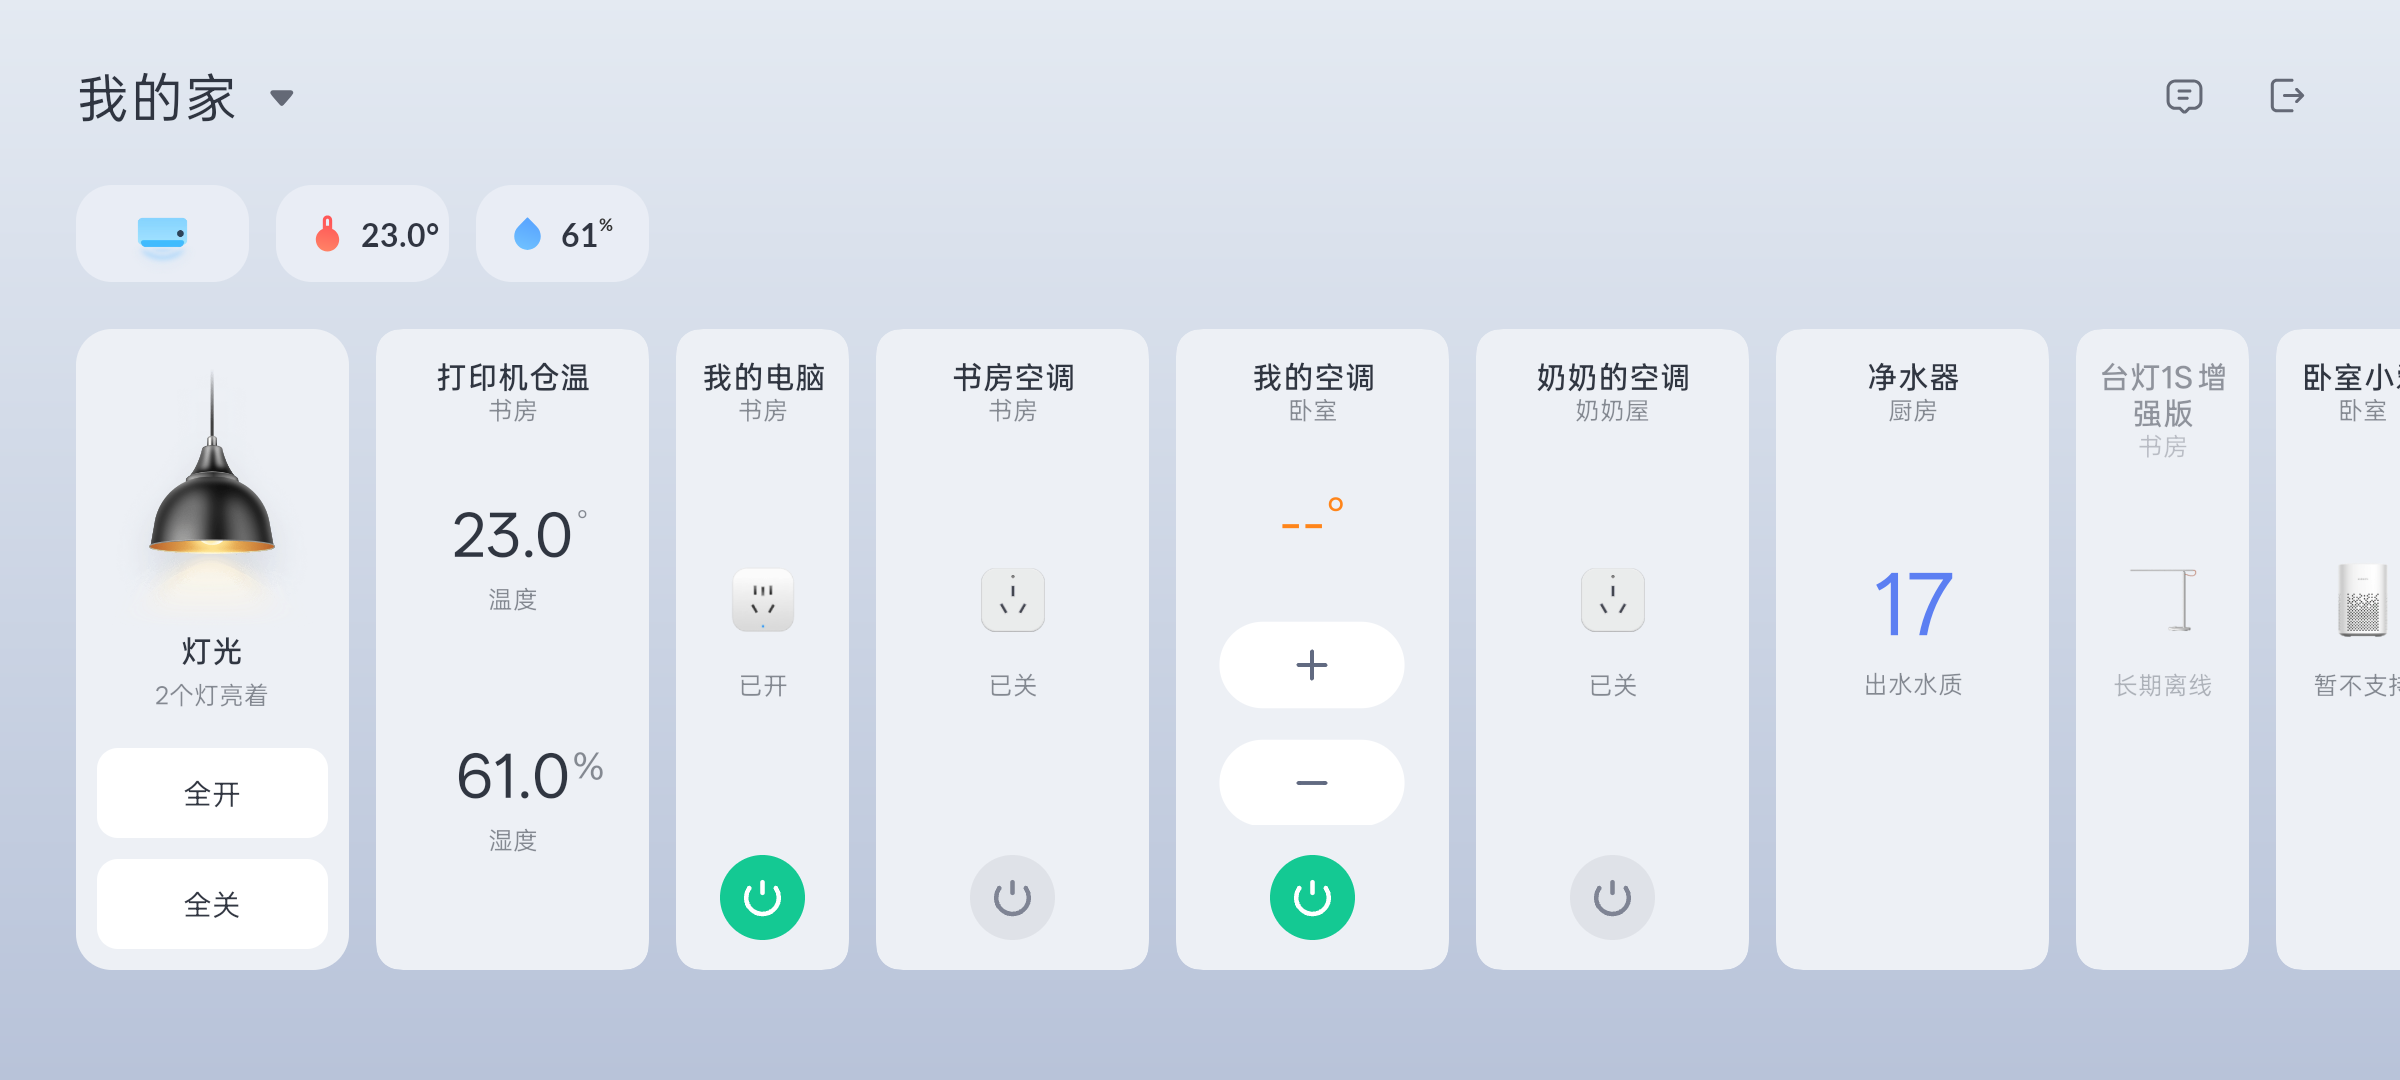
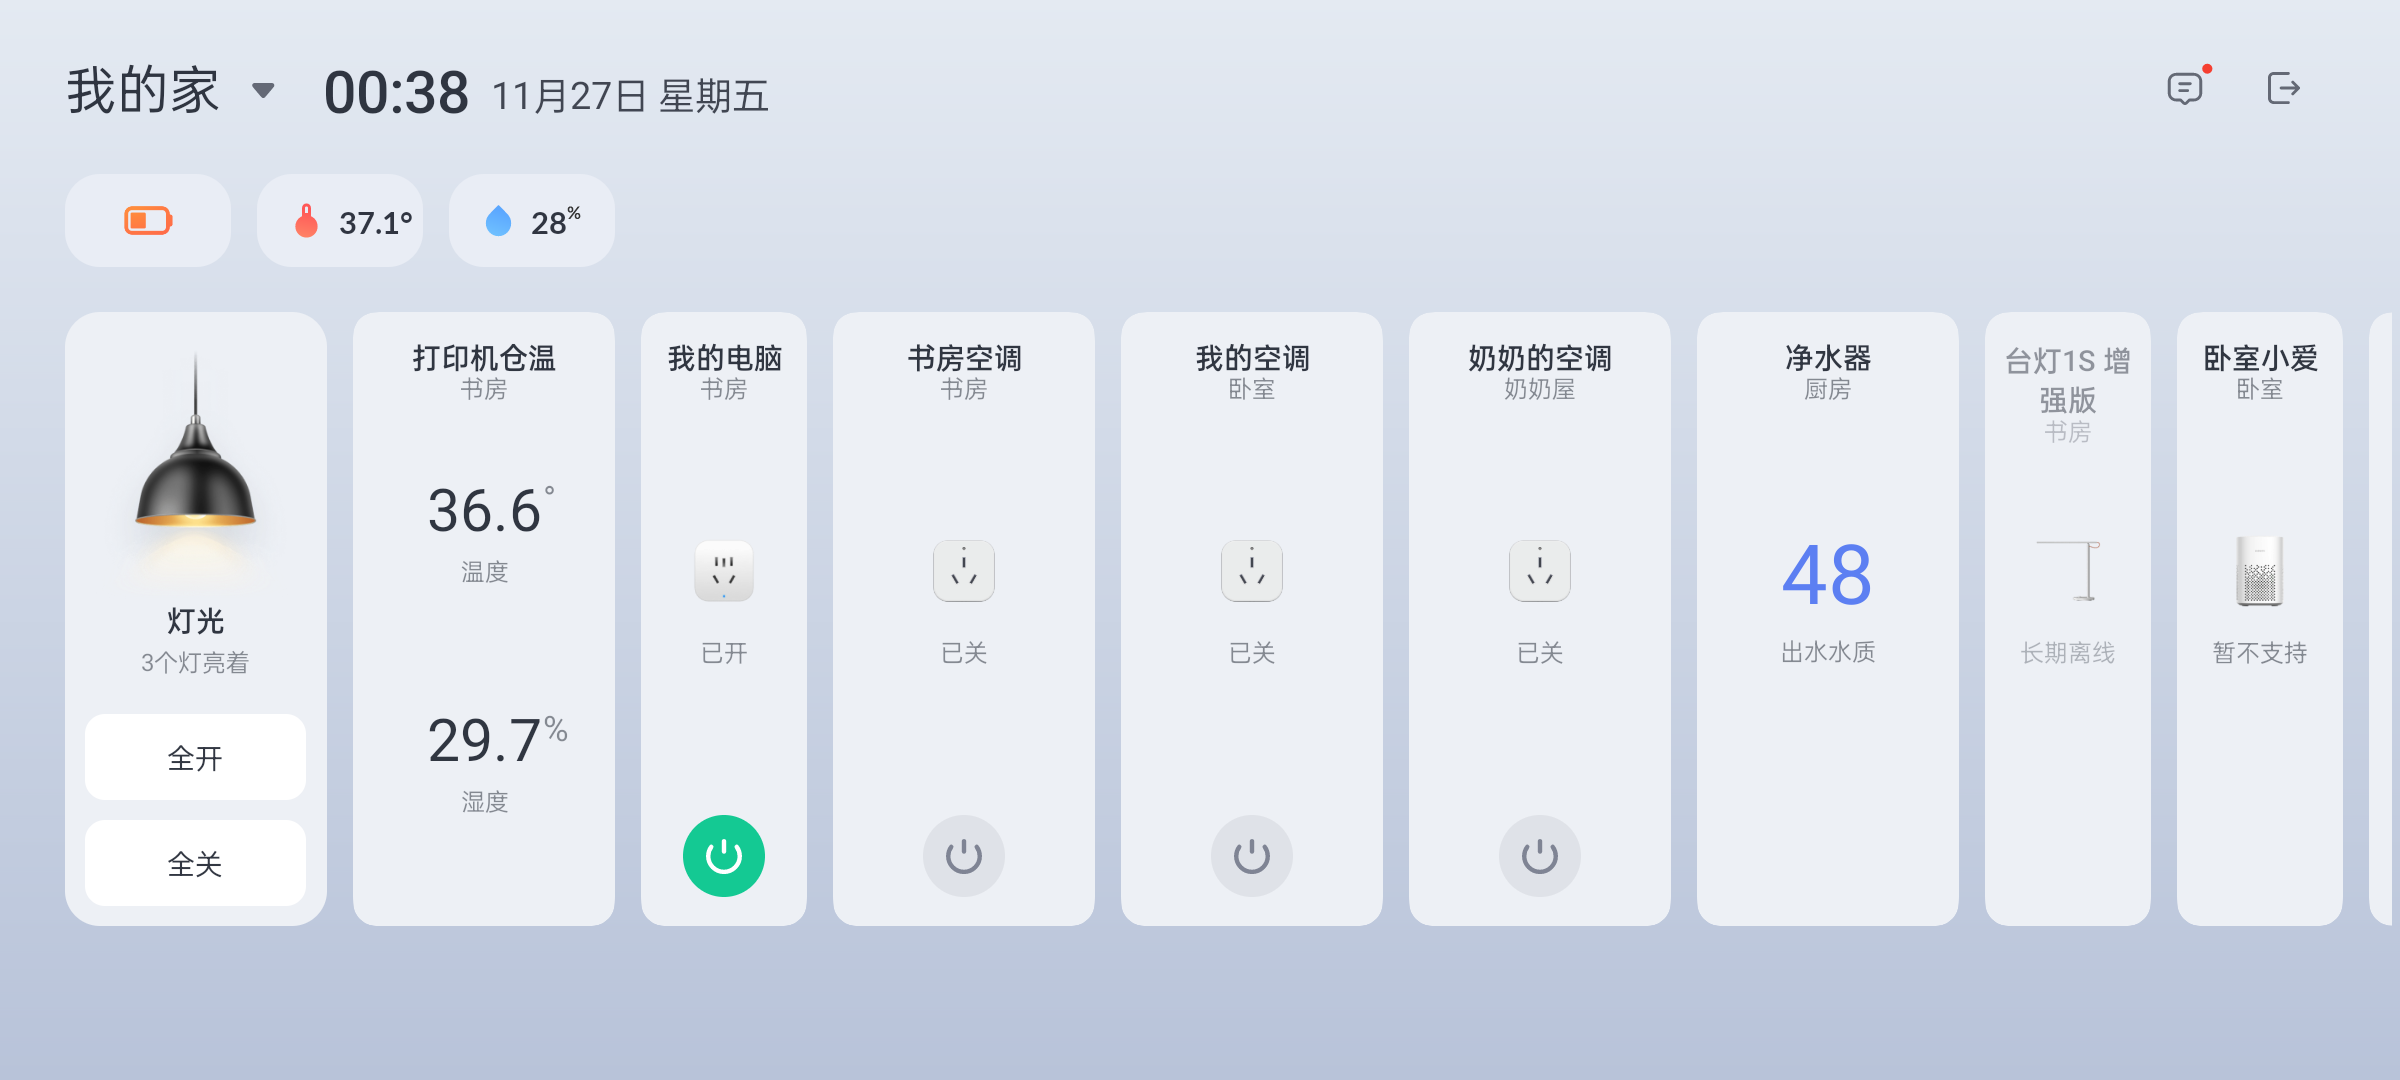
Release MijiaPanel 1.2.3

diff --git a/app/src/main/java/com/daxiaamu/mijiapanel/SettingsActivity.kt b/app/src/main/java/com/daxiaamu/mijiapanel/SettingsActivity.kt
@@ -111,7 +111,7 @@ class SettingsActivity : ComponentActivity() {
         const val BLOG_URL = "https://www.daxiaamu.com"
         const val GITHUB_PROFILE_URL = "https://github.com/daxiaamu"
         const val REPOSITORY_URL = "https://github.com/daxiaamu/mijiapanel"
-        const val MIJIA_APK_DOWNLOAD_URL = "https://pan.quark.cn/s/b331f616f77f"
+        const val MIJIA_APK_DOWNLOAD_URL = "https://pan.quark.cn/s/f6ce5d5bf94d"
     }
 
     private val handler = Handler(Looper.getMainLooper())

diff --git a/app/src/main/java/com/daxiaamu/mijiapanel/PanelClock.java b/app/src/main/java/com/daxiaamu/mijiapanel/PanelClock.java
@@ -1,0 +1,166 @@
+package com.daxiaamu.mijiapanel;
+
+import android.app.Activity;
+import android.content.res.Configuration;
+import android.graphics.Rect;
+import android.graphics.Typeface;
+import android.text.format.DateFormat;
+import android.view.Gravity;
+import android.view.View;
+import android.view.ViewGroup;
+import android.view.ViewTreeObserver;
+import android.widget.FrameLayout;
+import android.widget.LinearLayout;
+import android.widget.TextClock;
+import android.widget.TextView;
+
+import java.util.Locale;
+
+/** A window-local clock that moves together with the panel's content. */
+final class PanelClock {
+    private static final String TAG = "com.daxiaamu.mijiapanel.panelClock";
+    private static final int MIN_HEADER_WIDTH_DP = 560;
+    private static final int HOME_SELECTOR_RESERVE_DP = 192;
+    private static final int ACTIONS_RESERVE_DP = 120;
+
+    private PanelClock() {}
+
+    static void install(Activity activity) {
+        if (activity.isFinishing() || activity.isDestroyed()) {
+            return;
+        }
+        View root = activity.findViewById(android.R.id.content);
+        if (!(root instanceof FrameLayout) || root.findViewWithTag(TAG) != null) {
+            return;
+        }
+        FrameLayout content = (FrameLayout) root;
+        LinearLayout clock = new LinearLayout(activity) {
+            @Override
+            protected void onMeasure(int widthMeasureSpec, int heightMeasureSpec) {
+                // Collapsing on narrow windows keeps the native header actions accessible.
+                if (View.MeasureSpec.getSize(widthMeasureSpec)
+                        < dp(this, MIN_HEADER_WIDTH_DP - HOME_SELECTOR_RESERVE_DP - ACTIONS_RESERVE_DP)) {
+                    setMeasuredDimension(0, 0);
+                    return;
+                }
+                super.onMeasure(widthMeasureSpec, heightMeasureSpec);
+            }
+        };
+        clock.setTag(TAG);
+        clock.setOrientation(LinearLayout.HORIZONTAL);
+        clock.setGravity(Gravity.LEFT | Gravity.CENTER_VERTICAL);
+        clock.setClipChildren(true);
+
+        Configuration configuration = content.getResources().getConfiguration();
+        Locale locale = configuration.getLocales().get(0);
+        TextClock time = new TextClock(activity);
+        time.setTextLocale(locale);
+        time.setFormat12Hour(DateFormat.getBestDateTimePattern(locale, "hma"));
+        time.setFormat24Hour(DateFormat.getBestDateTimePattern(locale, "Hm"));
+        time.setTextAppearance(android.R.style.TextAppearance_Material_Body1);
+        time.setTextSize(34);
+        time.setTypeface(Typeface.create("sans-serif-medium", Typeface.NORMAL));
+        time.setFontFeatureSettings("tnum");
+        time.setSingleLine();
+        clock.addView(time, new LinearLayout.LayoutParams(-2, -2));
+
+        TextClock date = new TextClock(activity);
+        String datePattern = "zh".equals(locale.getLanguage())
+                ? "M月d日 EEEE"
+                : DateFormat.getBestDateTimePattern(locale, "MMMEd");
+        date.setTextLocale(locale);
+        date.setFormat12Hour(datePattern);
+        date.setFormat24Hour(datePattern);
+        date.setTextAppearance(android.R.style.TextAppearance_Material_Body1);
+        date.setTextSize(22);
+        date.setAlpha(0.9f);
+        date.setSingleLine();
+        LinearLayout.LayoutParams dateParams = new LinearLayout.LayoutParams(-2, -2);
+        dateParams.setMarginStart(dp(content, 12));
+        clock.addView(date, dateParams);
+
+        FrameLayout.LayoutParams params = new FrameLayout.LayoutParams(
+                -1, dp(content, 52), Gravity.TOP | Gravity.LEFT);
+        params.topMargin = dp(content, 24);
+        // Reserve both sides for the home selector and the notification/exit buttons.
+        params.leftMargin = dp(content, HOME_SELECTOR_RESERVE_DP);
+        params.rightMargin = dp(content, ACTIONS_RESERVE_DP);
+        content.addView(clock, params);
+        ViewTreeObserver.OnGlobalLayoutListener align = () -> {
+            if (clock.getWidth() == 0) {
+                return;
+            }
+            int[] contentOrigin = new int[2];
+            content.getLocationInWindow(contentOrigin);
+            int[] position = new int[2];
+            TextView title = findHomeTitle(content, clock, contentOrigin, position);
+            if (title != null) {
+                Rect bounds = new Rect();
+                int bottom = inkBottom(title, position, bounds);
+                alignBottom(time, bottom, position, bounds);
+                alignBottom(date, bottom, position, bounds);
+            }
+        };
+        clock.getViewTreeObserver().addOnGlobalLayoutListener(align);
+        clock.addOnAttachStateChangeListener(new View.OnAttachStateChangeListener() {
+            @Override
+            public void onViewAttachedToWindow(View view) {}
+
+            @Override
+            public void onViewDetachedFromWindow(View view) {
+                view.getViewTreeObserver().removeOnGlobalLayoutListener(align);
+                view.removeOnAttachStateChangeListener(this);
+            }
+        });
+    }
+
+    private static TextView findHomeTitle(
+            View view, View clock, int[] origin, int[] position) {
+        if (view == clock || view.getVisibility() != View.VISIBLE
+                || view.getWidth() == 0 || view.getHeight() == 0) {
+            return null;
+        }
+        view.getLocationInWindow(position);
+        int x = position[0] - origin[0];
+        int y = position[1] - origin[1];
+        // The title is the clickable label in the upper-left header, above device cards.
+        // Check geometry rather than an obfuscated resource ID or a home name.
+        if (x >= dp(view, 96) || y >= dp(view, 62)) {
+            return null;
+        }
+        if (view instanceof TextView) {
+            TextView label = (TextView) view;
+            if (view.isClickable() && y >= 0 && label.getText().length() != 0
+                    && label.getTextSize() >= dp(view, 24)) {
+                return label;
+            }
+        } else if (view instanceof ViewGroup) {
+            ViewGroup group = (ViewGroup) view;
+            for (int i = 0; i < group.getChildCount(); i++) {
+                TextView title = findHomeTitle(group.getChildAt(i), clock, origin, position);
+                if (title != null) {
+                    return title;
+                }
+            }
+        }
+        return null;
+    }
+
+    private static int inkBottom(TextView label, int[] position, Rect bounds) {
+        String text = label.getText().toString();
+        label.getPaint().getTextBounds(text, 0, text.length(), bounds);
+        label.getLocationInWindow(position);
+        return position[1] + label.getBaseline() + bounds.bottom;
+    }
+
+    private static void alignBottom(TextView label, int bottom, int[] position, Rect bounds) {
+        int delta = bottom - inkBottom(label, position, bounds);
+        if (delta != 0) {
+            label.setTranslationY(label.getTranslationY() + delta);
+        }
+    }
+
+    private static int dp(View view, int size) {
+        return Math.round(size * view.getResources().getDisplayMetrics().density);
+    }
+}

diff --git a/app/src/main/java/com/daxiaamu/mijiapanel/MijiaPanelModule.java b/app/src/main/java/com/daxiaamu/mijiapanel/MijiaPanelModule.java
@@ -1272,7 +1272,7 @@ public final class MijiaPanelModule extends XposedModule {
             CompatibilityProfile profile = compatibilityProfile;
             View entry = null;
 
-            if (profile.known) {
+            if (profile.known && profile.entryId != null) {
                 int entryId = context.getResources().getIdentifier(
                         profile.entryId, "id", TARGET_PACKAGE);
                 View exactEntry = entryId != 0 ? root.findViewById(entryId) : null;
@@ -1457,6 +1457,11 @@ public final class MijiaPanelModule extends XposedModule {
         hideSystemBars(activity);
         applyKeepScreenPolicy(activity);
         applyBrightnessSetting(activity);
+        try {
+            PanelClock.install(activity);
+        } catch (RuntimeException error) {
+            logFailure("Unable to display panel clock", error);
+        }
         configureBurnInProtection(activity);
     }
 
@@ -2207,7 +2212,13 @@ public final class MijiaPanelModule extends XposedModule {
                         "_m_j.lo1", "o00Oo0", "OoooOO0", true),
                 new CompatibilityProfile(
                         111016011L, "11.10.601", "df8",
-                        "_m_j.u49", "o0OoOo0", "OoooO0O", true)
+                        "_m_j.u49", "o0OoOo0", "OoooO0O", true),
+                new CompatibilityProfile(
+                        111016231L, "11.10.623", null,
+                        "_m_j.qb8", "OooOoOO", "OooO0o0", true),
+                new CompatibilityProfile(
+                        111017011L, "11.10.701", null,
+                        "_m_j.qb8", "OooOoOO", "OooO0o0", true)
         };
 
         private final long versionCode;
@@ -2236,6 +2247,7 @@ public final class MijiaPanelModule extends XposedModule {
                     : versionCode == 110717051L ? "_m_j.eq"
                     : versionCode == 110816051L ? "_m_j.pt9"
                     : versionCode == 111016011L ? "_m_j.dxf"
+                    : (versionCode == 111016231L || versionCode == 111017011L) ? "_m_j.z8b"
                     : UTILITY_CLASS;
             this.utilityMethod = utilityMethod;
             this.known = known;

diff --git a/README.md b/README.md
@@ -2,7 +2,7 @@
 
 使米家 APP 在手机上也可以显示中控入口和开启中控模式。
 
-已适配米家 11.5.705、11.6.501、11.6.625、11.6.701、11.6.703、11.6.705、11.7.623、11.7.705、11.8.605、11.10.601。其他版本会尝试自动识别关键 Hook 点，但不保证完全兼容。
+已适配米家 11.5.705、11.6.501、11.6.625、11.6.701、11.6.703、11.6.705、11.7.623、11.7.705、11.8.605、11.10.601、11.10.623、11.10.701。其他版本会尝试自动识别关键 Hook 点，但不保证完全兼容。
 
 ## 界面预览
 
